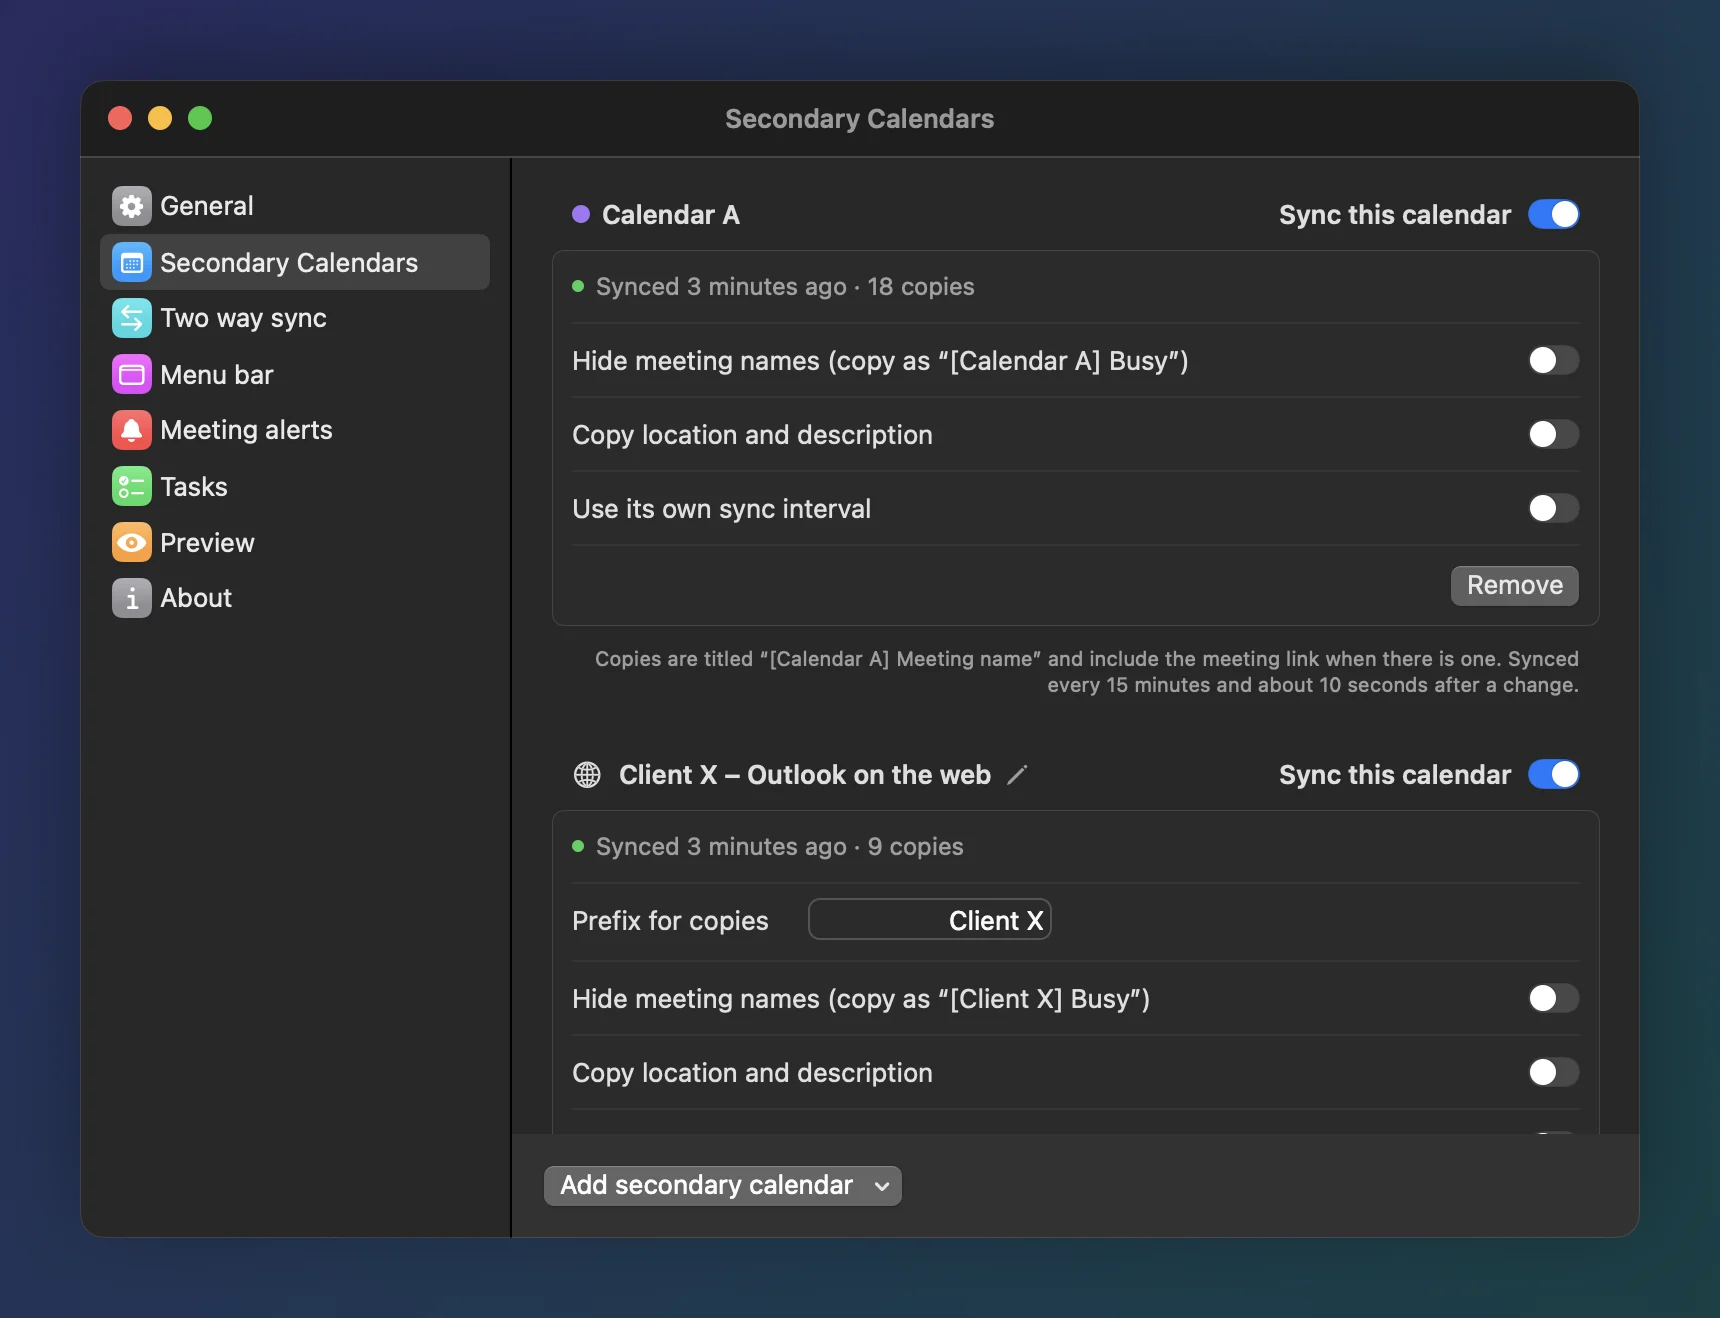
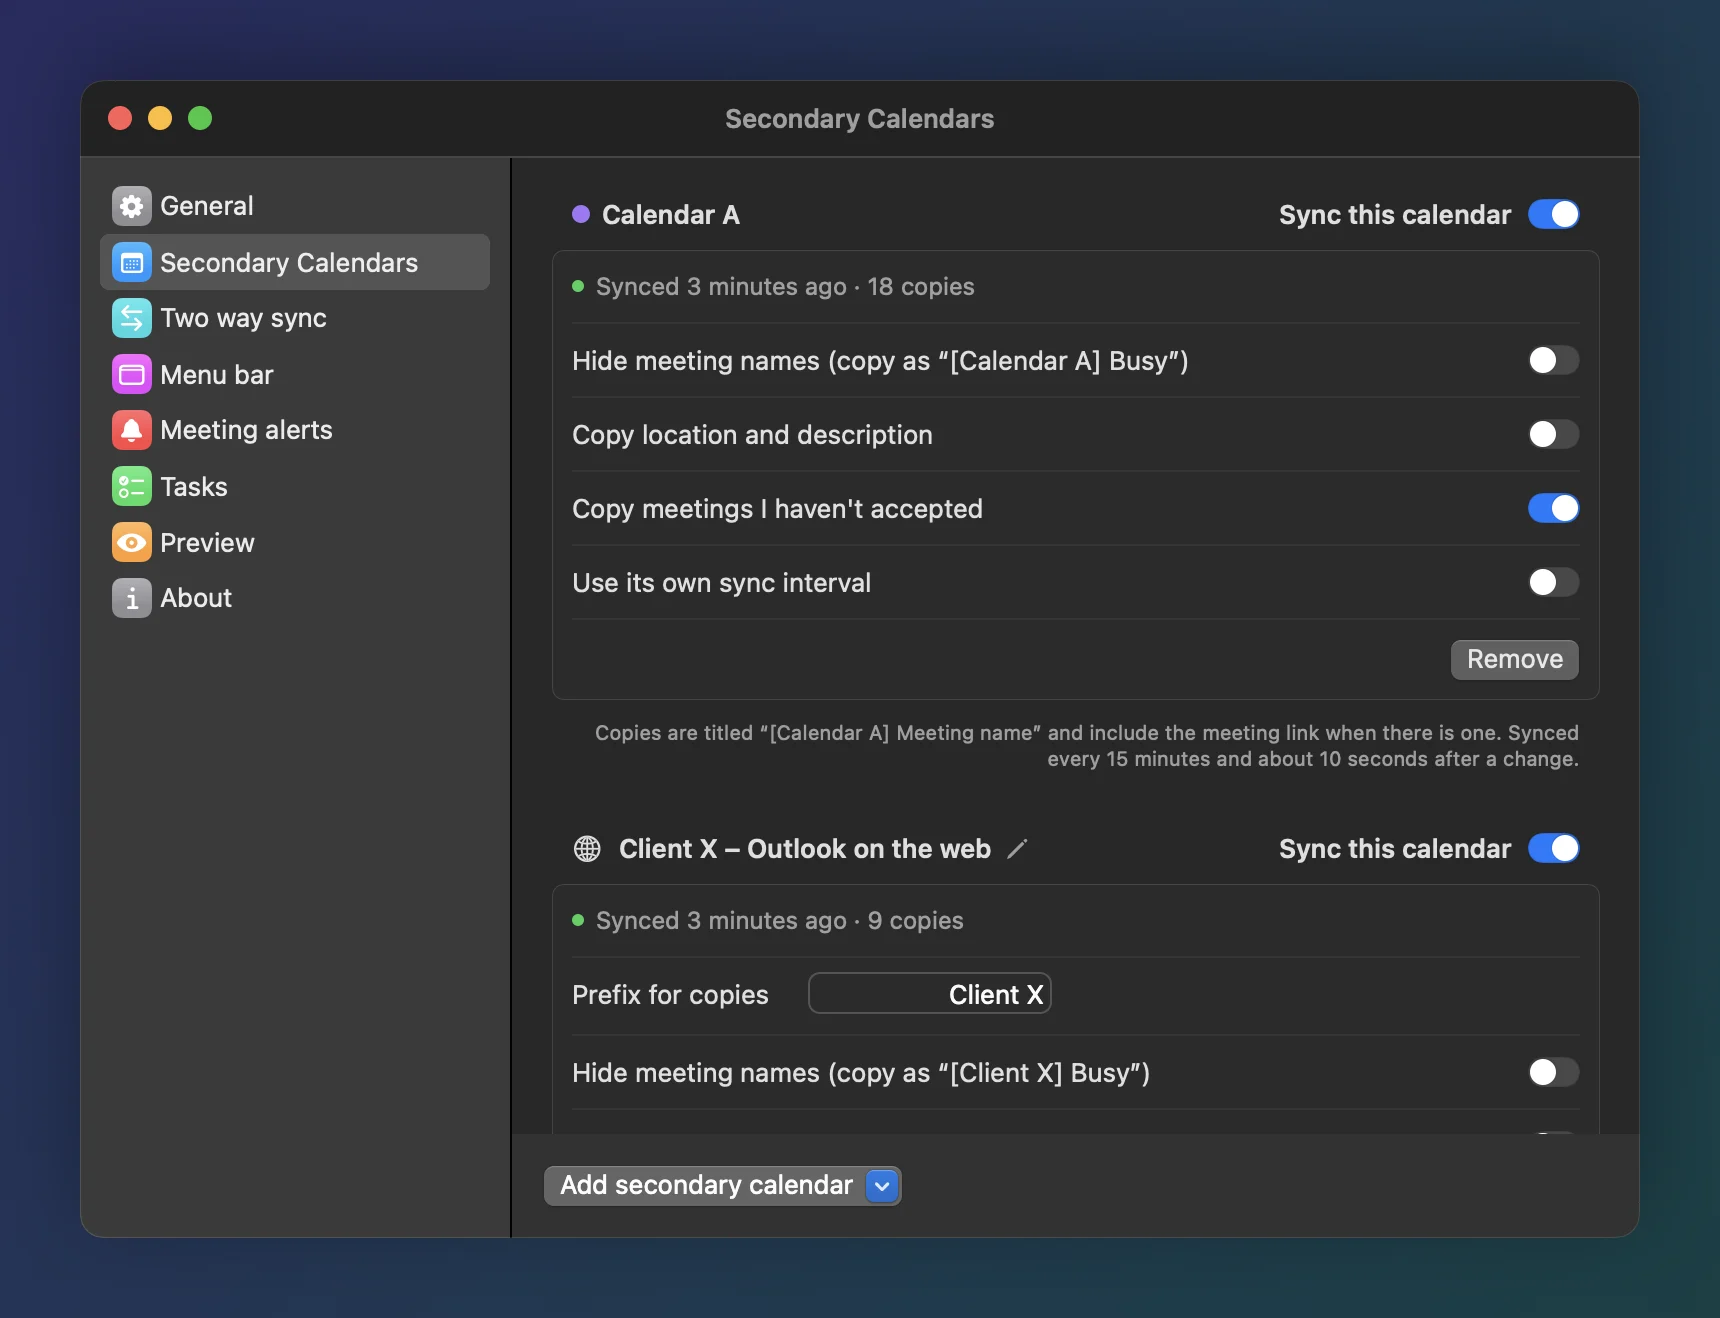
2.0.5: Per secondary calendar, leave out meetings you haven't accepted
Each secondary calendar gets "Copy meetings I haven't accepted", on by default. Turned off,
only meetings you accepted are copied: not ones you haven't answered, accepted tentatively or
declined. Your own events, and the ones you organise, count as accepted.

Calendar.app gives your reply as the participant status. Outlook on the web gives it as
ResponseType (Graph: responseStatus); its on-screen labels don't, so for weeks read from the
page a meeting shown as Tentative counts as not accepted, which is how Exchange shows an
invitation until you accept it.

diff --git a/Sources/CalendarSyncCore/Models.swift b/Sources/CalendarSyncCore/Models.swift
@@ -47,6 +47,9 @@ public struct SourceConfig: Codable, Hashable, Identifiable, Sendable {
     /// When on, copies also get the meeting's location and description. Ignored while
     /// `hideMeetingName` is on, so hidden meetings don't leak through their details.
     public var copyDetails: Bool
+    /// When off, only meetings you accepted are copied (see `SourceEvent.isAccepted`), not ones
+    /// you haven't answered, accepted tentatively or declined.
+    public var copyUnaccepted: Bool
     /// How often this calendar is read, in minutes. `nil` uses the app-wide interval.
     public var intervalMinutes: Int?
 
@@ -54,7 +57,7 @@ public struct SourceConfig: Codable, Hashable, Identifiable, Sendable {
     enum CodingKeys: String, CodingKey {
         case id, kind, calendarName, name, hideMeetingName, isEnabled
         case showBusyInSecondary = "showBusyInClient"
-        case busyStyle, copyDetails, intervalMinutes
+        case busyStyle, copyDetails, copyUnaccepted, intervalMinutes
     }
 
     public init(
@@ -67,6 +70,7 @@ public struct SourceConfig: Codable, Hashable, Identifiable, Sendable {
         showBusyInSecondary: Bool = false,
         busyStyle: BusyStyle = .busy,
         copyDetails: Bool = false,
+        copyUnaccepted: Bool = true,
         intervalMinutes: Int? = nil
     ) {
         self.id = id
@@ -78,6 +82,7 @@ public struct SourceConfig: Codable, Hashable, Identifiable, Sendable {
         self.showBusyInSecondary = showBusyInSecondary
         self.busyStyle = busyStyle
         self.copyDetails = copyDetails
+        self.copyUnaccepted = copyUnaccepted
         self.intervalMinutes = intervalMinutes
     }
 
@@ -93,6 +98,7 @@ public struct SourceConfig: Codable, Hashable, Identifiable, Sendable {
         showBusyInSecondary = try c.decodeIfPresent(Bool.self, forKey: .showBusyInSecondary) ?? false
         busyStyle = try c.decodeIfPresent(BusyStyle.self, forKey: .busyStyle) ?? .busy
         copyDetails = try c.decodeIfPresent(Bool.self, forKey: .copyDetails) ?? false
+        copyUnaccepted = try c.decodeIfPresent(Bool.self, forKey: .copyUnaccepted) ?? true
         intervalMinutes = try c.decodeIfPresent(Int.self, forKey: .intervalMinutes)
     }
 }
@@ -239,6 +245,8 @@ public struct SourceEvent: Hashable, Sendable {
     public var isAllDay: Bool
     public var timeZone: TimeZone?
     public var isDeclined: Bool
+    /// An invitation not answered yet, or accepted tentatively.
+    public var isUnconfirmed: Bool
     public var isCancelled: Bool
     /// Shown as "Out of office" in the source calendar.
     public var isOutOfOffice: Bool
@@ -248,6 +256,9 @@ public struct SourceEvent: Hashable, Sendable {
     public var notes: String?
     public var location: String?
 
+    /// Accepted, or not an invitation at all: your own events and the ones you organise.
+    public var isAccepted: Bool { !isDeclined && !isUnconfirmed }
+
     public init(
         key: String,
         title: String,
@@ -256,6 +267,7 @@ public struct SourceEvent: Hashable, Sendable {
         isAllDay: Bool = false,
         timeZone: TimeZone? = nil,
         isDeclined: Bool = false,
+        isUnconfirmed: Bool = false,
         isCancelled: Bool = false,
         isOutOfOffice: Bool = false,
         meetingURL: URL? = nil,
@@ -269,6 +281,7 @@ public struct SourceEvent: Hashable, Sendable {
         self.isAllDay = isAllDay
         self.timeZone = timeZone
         self.isDeclined = isDeclined
+        self.isUnconfirmed = isUnconfirmed
         self.isCancelled = isCancelled
         self.isOutOfOffice = isOutOfOffice
         self.meetingURL = meetingURL

diff --git a/Tests/CalendarSyncCoreTests/OutlookWebParserTests.swift b/Tests/CalendarSyncCoreTests/OutlookWebParserTests.swift
@@ -49,6 +49,20 @@ final class OutlookWebParserTests: XCTestCase {
         XCTAssertEqual(e.meetingURL?.absoluteString, "https://teams.microsoft.com/l/meetup-join/xyz")
     }
 
+    func testResponses() {
+        let owa = ["Accept", "Organizer", "Unknown", "Tentative", "NoResponseReceived", "Decline"].enumerated().map { i, response in
+            #"{"ItemId":{"Id":"\#(i)"},"Subject":"M","Start":"2026-10-23T0\#(i):00:00Z","End":"2026-10-23T0\#(i):30:00Z","ResponseType":"\#(response)"}"#
+        }
+        let graph = ["accepted", "organizer", "none", "tentativelyAccepted", "notResponded", "declined"].enumerated().map { i, response in
+            #"{"id":"g\#(i)","subject":"M","start":{"dateTime":"2026-10-24T0\#(i):00:00","timeZone":"UTC"},"end":{"dateTime":"2026-10-24T0\#(i):30:00","timeZone":"UTC"},"responseStatus":{"response":"\#(response)"}}"#
+        }
+        for items in [owa, graph] {
+            let events = OutlookWebParser.events(fromPayloads: [Data(#"{"Items":[\#(items.joined(separator: ","))]}"#.utf8)])
+            XCTAssertEqual(events.map(\.isAccepted), [true, true, true, false, false, false])
+            XCTAssertEqual(events.map(\.isUnconfirmed), [false, false, false, true, true, false])
+        }
+    }
+
     func testIgnoresNonEventsAndDuplicates() {
         let a = #"{"Items":[{"ItemId":{"Id":"1"},"Subject":"A","Start":"2026-10-23T09:00:00Z","End":"2026-10-23T10:00:00Z"}]}"#
         let noise = #"{"Folders":[{"DisplayName":"Calendar","Id":"f1"}],"start":"x"}"#
@@ -225,6 +239,8 @@ final class OutlookWebParserTests: XCTestCase {
         XCTAssertEqual(events[0].start, ISO8601DateFormatter().date(from: "2026-11-09T09:30:00Z"))
         XCTAssertEqual(events[0].end, ISO8601DateFormatter().date(from: "2026-11-09T10:00:00Z"))
         XCTAssertEqual(events[1].end, ISO8601DateFormatter().date(from: "2026-11-10T00:30:00Z"))
+        // Exchange shows an invitation as tentative until it's accepted.
+        XCTAssertEqual(events.map(\.isUnconfirmed), [true, false])
     }
 
     func testScreenLabelsOutOfOfficeAndIcons() {
@@ -240,6 +256,7 @@ final class OutlookWebParserTests: XCTestCase {
         XCTAssertEqual(events.map(\.isOutOfOffice), [true, true, false, false])
         // The same key as when the week's data is captured, so the meeting isn't read twice.
         XCTAssertEqual(events[0].key, OutlookWebParser.screenKey(title: "Picking up kids from school", start: events[0].start))
-        XCTAssertFalse(SyncPlanner.shouldCopy(events[0], options: SyncOptions()))
+        let source = SourceConfig(kind: .outlookWeb, calendarName: "Sainsbury's")
+        XCTAssertFalse(SyncPlanner.shouldCopy(events[0], from: source, options: SyncOptions()))
     }
 }

diff --git a/Sources/CalendarSyncCore/OutlookWebParser.swift b/Sources/CalendarSyncCore/OutlookWebParser.swift
@@ -187,7 +187,11 @@ public enum OutlookWebParser {
             let rest = Range(m.range(at: 5), in: label).map { String(label[$0]) } ?? ""
             // The rest has how the event shows, untranslated: "Busy", "Tentative", "Free",
             // "WorkingElsewhere", or "OOF" for out of office.
-            let isOutOfOffice = rest.split(separator: ",").contains { $0.trimmingCharacters(in: .whitespaces) == "OOF" }
+            let fields = rest.split(separator: ",").map { $0.trimmingCharacters(in: .whitespaces) }
+            let isOutOfOffice = fields.contains("OOF")
+            // The label doesn't say whether you accepted. Exchange shows an invitation as
+            // tentative until you accept it, so a tentative one counts as not accepted.
+            let isUnconfirmed = fields.contains("Tentative")
 
             let lowered = title.lowercased()
             let key = screenKey(title: title, start: start)
@@ -197,6 +201,7 @@ public enum OutlookWebParser {
                 title: title,
                 start: start,
                 end: end,
+                isUnconfirmed: isUnconfirmed,
                 isCancelled: lowered.hasPrefix("canceled:") || lowered.hasPrefix("cancelled:"),
                 isOutOfOffice: isOutOfOffice,
                 meetingURL: MeetingLink.firstMeetingLink(in: rest)
@@ -234,6 +239,8 @@ public enum OutlookWebParser {
             ?? obj.object("responseStatus")?.string("response")
             ?? "").lowercased()
         let isDeclined = response.hasPrefix("decline")
+        // OWA: Tentative / NoResponseReceived; Graph: tentativelyAccepted / notResponded.
+        let isUnconfirmed = response.hasPrefix("tentative") || response == "noresponsereceived" || response == "notresponded"
 
         // OWA: FreeBusyType / LegacyFreeBusyStatus "OOF"; Graph: showAs "oof".
         let showAs = (obj.string("freeBusyType") ?? obj.string("legacyFreeBusyStatus") ?? obj.string("showAs") ?? "").lowercased()
@@ -262,6 +269,7 @@ public enum OutlookWebParser {
             isAllDay: isAllDay,
             timeZone: nil,
             isDeclined: isDeclined,
+            isUnconfirmed: isUnconfirmed,
             isCancelled: isCancelled,
             isOutOfOffice: isOutOfOffice,
             meetingURL: meetingURL,

diff --git a/Tests/CalendarSyncCoreTests/SyncPlannerTests.swift b/Tests/CalendarSyncCoreTests/SyncPlannerTests.swift
@@ -135,6 +135,23 @@ final class SyncPlannerTests: XCTestCase {
         XCTAssertEqual(keep.creates, 3) // declined + all-day + ok; never cancelled or our own copies
     }
 
+    func testUnacceptedMeetingsCanBeLeftOutPerCalendar() {
+        var unanswered = event("u", "Not answered", at: 1); unanswered.isUnconfirmed = true
+        var declined = event("d", "Declined", at: 2); declined.isDeclined = true
+        let events = [unanswered, declined, event("a", "Accepted or my own", at: 3)]
+        var acceptedOnly = SourceConfig(kind: .outlookWeb, calendarName: "Client X")
+        acceptedOnly.copyUnaccepted = false
+        let options = SyncOptions(skipDeclined: false)
+
+        let plan = SyncPlanner.plan(sources: [(source, .success(events)), (acceptedOnly, .success(events))],
+                                    existing: [], options: options)
+        let titles = plan.actions.compactMap { if case .create(let spec) = $0 { spec.title } else { nil } }
+        XCTAssertEqual(titles, [
+            "[Calendar A] Not answered", "[Calendar A] Declined", "[Calendar A] Accepted or my own",
+            "[Client X] Accepted or my own",
+        ])
+    }
+
     func testDuplicateCopiesAreCleanedUp() {
         let first = SyncPlanner.plan(sources: [(source, .success([event("1", "A", at: 1)]))], existing: [], options: SyncOptions())
         var dupes = copies(from: first)
@@ -229,6 +246,7 @@ final class SyncPlannerTests: XCTestCase {
         let source = #"{"id":"6F9619FF-8B86-D011-B42D-00C04FC964FF","kind":{"outlookWeb":{}},"calendarName":"A"}"#
         let config = try JSONDecoder().decode(SourceConfig.self, from: Data(source.utf8))
         XCTAssertFalse(config.copyDetails)
+        XCTAssertTrue(config.copyUnaccepted)
         XCTAssertNil(config.intervalMinutes)
     }
 

diff --git a/Sources/CalendarSyncCore/SyncPlanner.swift b/Sources/CalendarSyncCore/SyncPlanner.swift
@@ -44,7 +44,7 @@ public enum SyncPlanner {
                 failed[config.id] = reason
             case .success(let events):
                 syncedSourceIDs.insert(config.id)
-                for event in events where shouldCopy(event, options: options) {
+                for event in events where shouldCopy(event, from: config, options: options) {
                     let spec = CopyFormatter.spec(for: event, source: config)
                     if let marker = spec.marker, desired[marker] == nil {
                         desired[marker] = spec
@@ -189,9 +189,10 @@ public enum SyncPlanner {
         return (actions, unchanged)
     }
 
-    static func shouldCopy(_ event: SourceEvent, options: SyncOptions) -> Bool {
+    static func shouldCopy(_ event: SourceEvent, from source: SourceConfig, options: SyncOptions) -> Bool {
         if event.isCancelled { return false }
         if options.skipDeclined && event.isDeclined { return false }
+        if !source.copyUnaccepted && !event.isAccepted { return false }
         if options.skipAllDay && event.isAllDay { return false }
         if options.skipOutOfOffice && event.isOutOfOffice { return false }
         // Never copy our own copies or Busy events back (two-way setups would loop forever).

diff --git a/Sources/CalendarSync/SettingsView.swift b/Sources/CalendarSync/SettingsView.swift
@@ -543,6 +543,7 @@ private struct SourceRow: View {
             Toggle("Hide meeting names (copy as “\(copyTitle("Busy"))”)", isOn: $source.hideMeetingName)
             Toggle("Copy location and description", isOn: $source.copyDetails)
                 .disabled(source.hideMeetingName)
+            Toggle("Copy meetings I haven't accepted", isOn: $source.copyUnaccepted)
             Toggle("Use its own sync interval", isOn: Binding(
                 get: { source.intervalMinutes != nil },
                 set: { source.intervalMinutes = $0 ? settings.intervalMinutes : nil }))
@@ -645,6 +646,9 @@ private struct SourceRow: View {
             text += source.hideMeetingName
                 ? " Location and description aren't copied while meeting names are hidden."
                 : " The location and description are copied too."
+        }
+        if !source.copyUnaccepted {
+            text += " Meetings you haven't answered, accepted tentatively or declined aren't copied."
         }
         let minutes = SyncSchedule.interval(for: source, defaultMinutes: settings.intervalMinutes)
         text += " Synced every \(minutes) \(minutes == 1 ? "minute" : "minutes")"

diff --git a/Sources/CalendarSync/EventKitBridge.swift b/Sources/CalendarSync/EventKitBridge.swift
@@ -72,6 +72,8 @@ final class EventKitBridge {
             isAllDay: event.isAllDay,
             timeZone: event.timeZone,
             isDeclined: myStatus == .declined,
+            // Your own events, and the ones you organise, have no status.
+            isUnconfirmed: myStatus == .pending || myStatus == .tentative,
             isCancelled: event.status == .canceled,
             // Exchange's "Out of office" comes through as unavailable.
             isOutOfOffice: event.availability == .unavailable,

diff --git a/docs/how-it-works.md b/docs/how-it-works.md
@@ -18,7 +18,7 @@ flowchart LR
 - **Meeting link included.** Teams, Zoom, Google Meet and Webex links are copied onto the event and shown first in its notes, so **Join** works straight from your main calendar.
 - **Matched by a hidden tag.** Every copy ends its notes with a tag like `calsync:v1:<source id>:<occurrence id>`. The app uses it to recognise its own copies and match them to their originals, not by title and time. So a moved meeting gets updated instead of duplicated, a cancelled one is removed, and recurring meetings just work.
 - **Safe by design.** It never copies attendees, so no invites go out. It never copies its own copies back, so two-way setups don't loop. If a calendar can't be read, its copies are left alone.
-- **What's copied.** You can **skip meetings you declined**, **skip all-day events** and **skip out-of-office events** (on by default). Per secondary calendar, copies can also get the meeting's **location and description**.
+- **What's copied.** You can **skip meetings you declined**, **skip all-day events** and **skip out-of-office events** (on by default). Per secondary calendar, copies can also get the meeting's **location and description**, and you can leave out **meetings you haven't accepted**: ones you haven't answered, accepted tentatively or declined. Your own events, and the ones you organise, count as accepted. When Outlook on the web doesn't say whether you accepted, a meeting shown as tentative counts as not accepted.
 
 It syncs **every 15 minutes** by default; set any interval from 1 minute to 24 hours, and give a secondary calendar **its own interval** when it should sync more or less often than the rest (say, Outlook on the web hourly). Calendar.app calendars also sync about 10 seconds after a change. Settings has a **Preview** that shows what the next sync would change before it changes anything.
 

diff --git a/docs/install.md b/docs/install.md
@@ -40,7 +40,7 @@ To update later: quit the app, then `git pull && scripts/build-app.sh` and reope
 Allow calendar access on first launch. Then open **Settings…** from the menu bar icon and go through the panes in its sidebar:
 
 1. **General:** choose your **main calendar** (the one meetings are copied into), how many days ahead, and how often to sync.
-2. **Secondary Calendars:** add each secondary calendar. For Outlook on the web, also give it a calendar name. Optionally turn on **Copy location and description** or **Use its own sync interval**. Each calendar shows when it was last read and how many copies it has, or what went wrong and how to fix it.
+2. **Secondary Calendars:** add each secondary calendar. For Outlook on the web, also give it a calendar name. Optionally turn on **Copy location and description** or **Use its own sync interval**, or turn off **Copy meetings I haven't accepted**. Each calendar shows when it was last read and how many copies it has, or what went wrong and how to fix it.
 3. **Two way sync:** turn on **Sync both ways** to show your main calendar as **Busy** in your secondary calendars, so they all show the same booked time. Turning it on includes every secondary calendar you can edit; turn off **Show my main calendar here** for any that shouldn't, or pick **Out of office** instead of **Busy**. For Outlook on the web calendars, also turn on **Also sync Outlook on the web calendars** (experimental).
 4. **Menu bar** and **Meeting alerts:** the menu's calendar, the next meeting in the menu bar, Meeting Stats, and the **full-screen alert** when each meeting starts, which is on unless you turn it off.
 5. **Preview:** see what a sync would change, then let it run.

diff --git a/README.md b/README.md
@@ -8,7 +8,7 @@
 
 A small Mac menu bar app that copies the meetings from your other calendars into the one your colleagues book you through, so nobody books you over a meeting they can't see. It also keeps your day in view: the next meeting a click away, a nudge when it starts, and the tasks to prepare it.
 
-[![Version 2.0.4](https://img.shields.io/badge/version-2.0.4-2563EB)](Support/Info.plist)
+[![Version 2.0.5](https://img.shields.io/badge/version-2.0.5-2563EB)](Support/Info.plist)
 [![Build](https://github.com/neteinstein/Calendar-Sync/actions/workflows/build.yml/badge.svg)](https://github.com/neteinstein/Calendar-Sync/actions/workflows/build.yml)
 ![macOS 14+](https://img.shields.io/badge/macOS-14%2B-111?logo=apple&logoColor=white)
 [![Homebrew tap](https://img.shields.io/badge/homebrew-neteinstein%2Ftap-FBB040?logo=homebrew&logoColor=white)](https://github.com/neteinstein/homebrew-tap)
